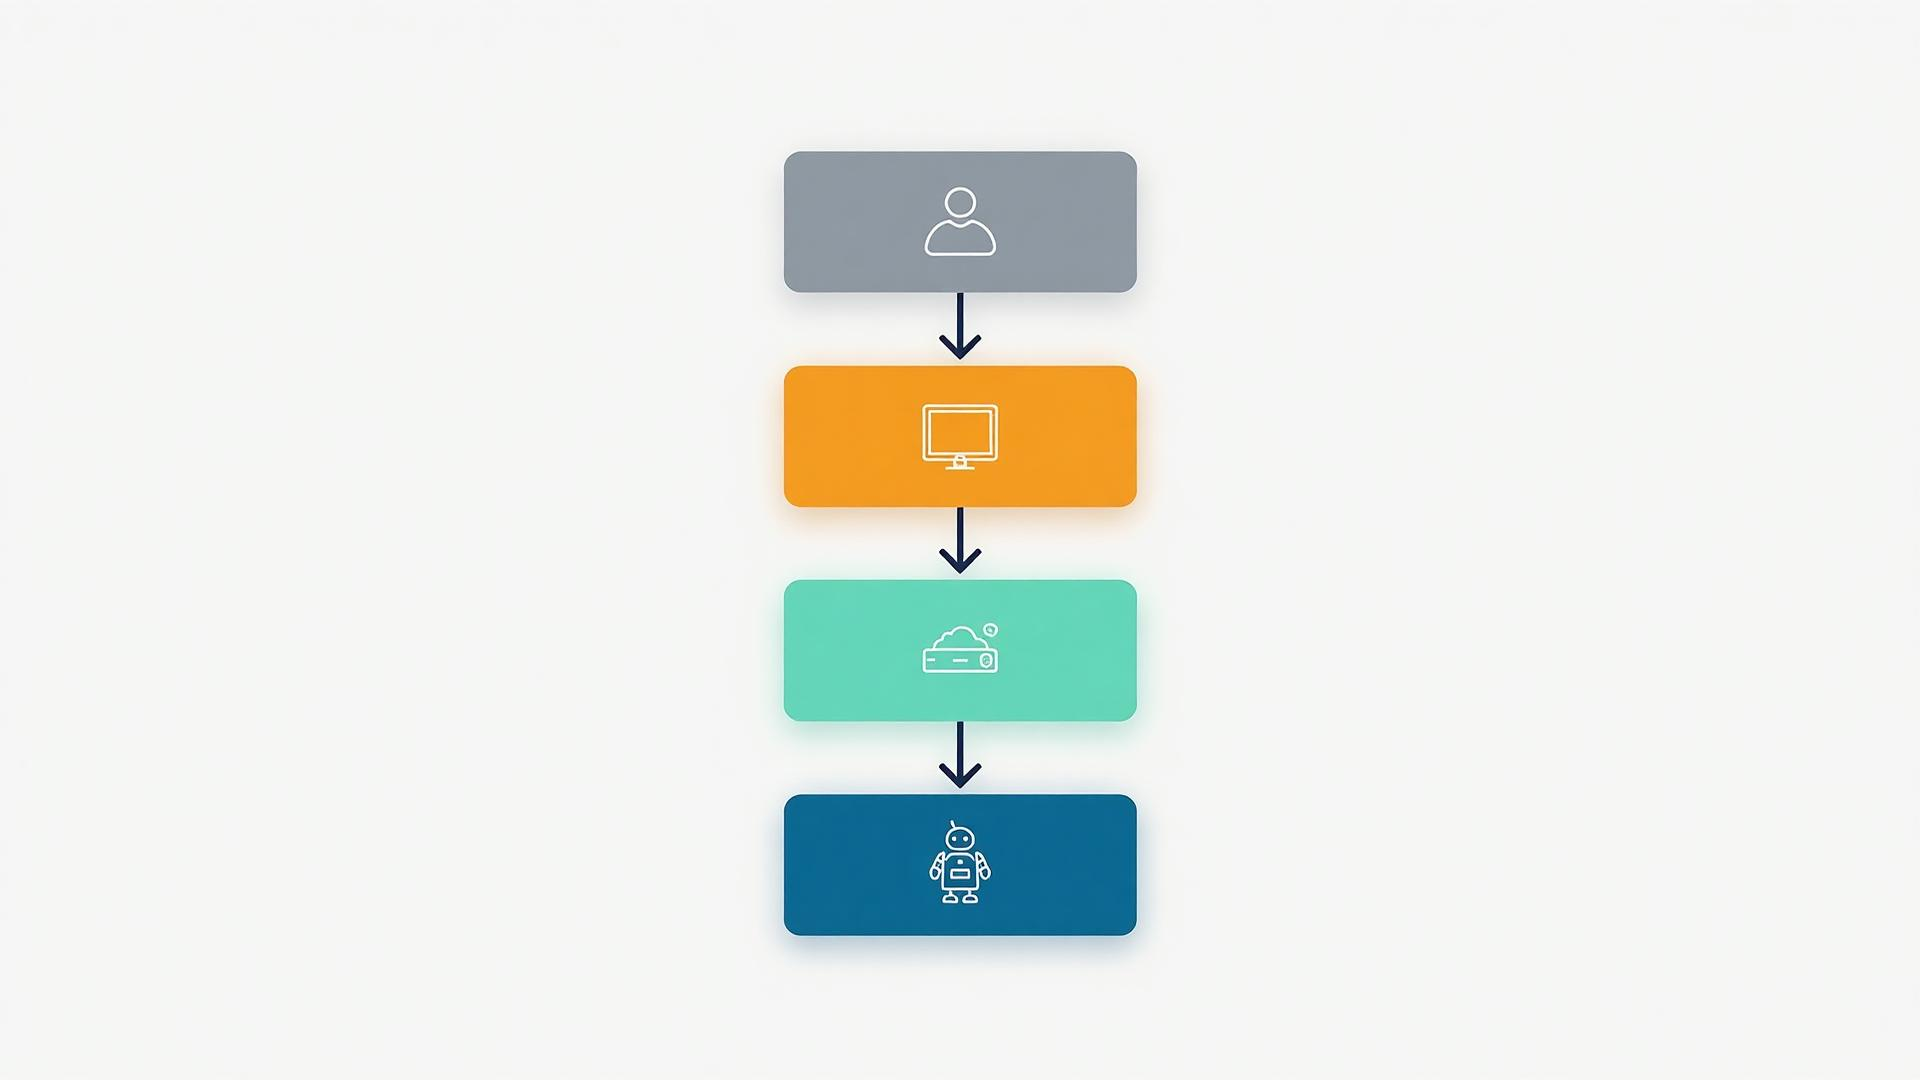
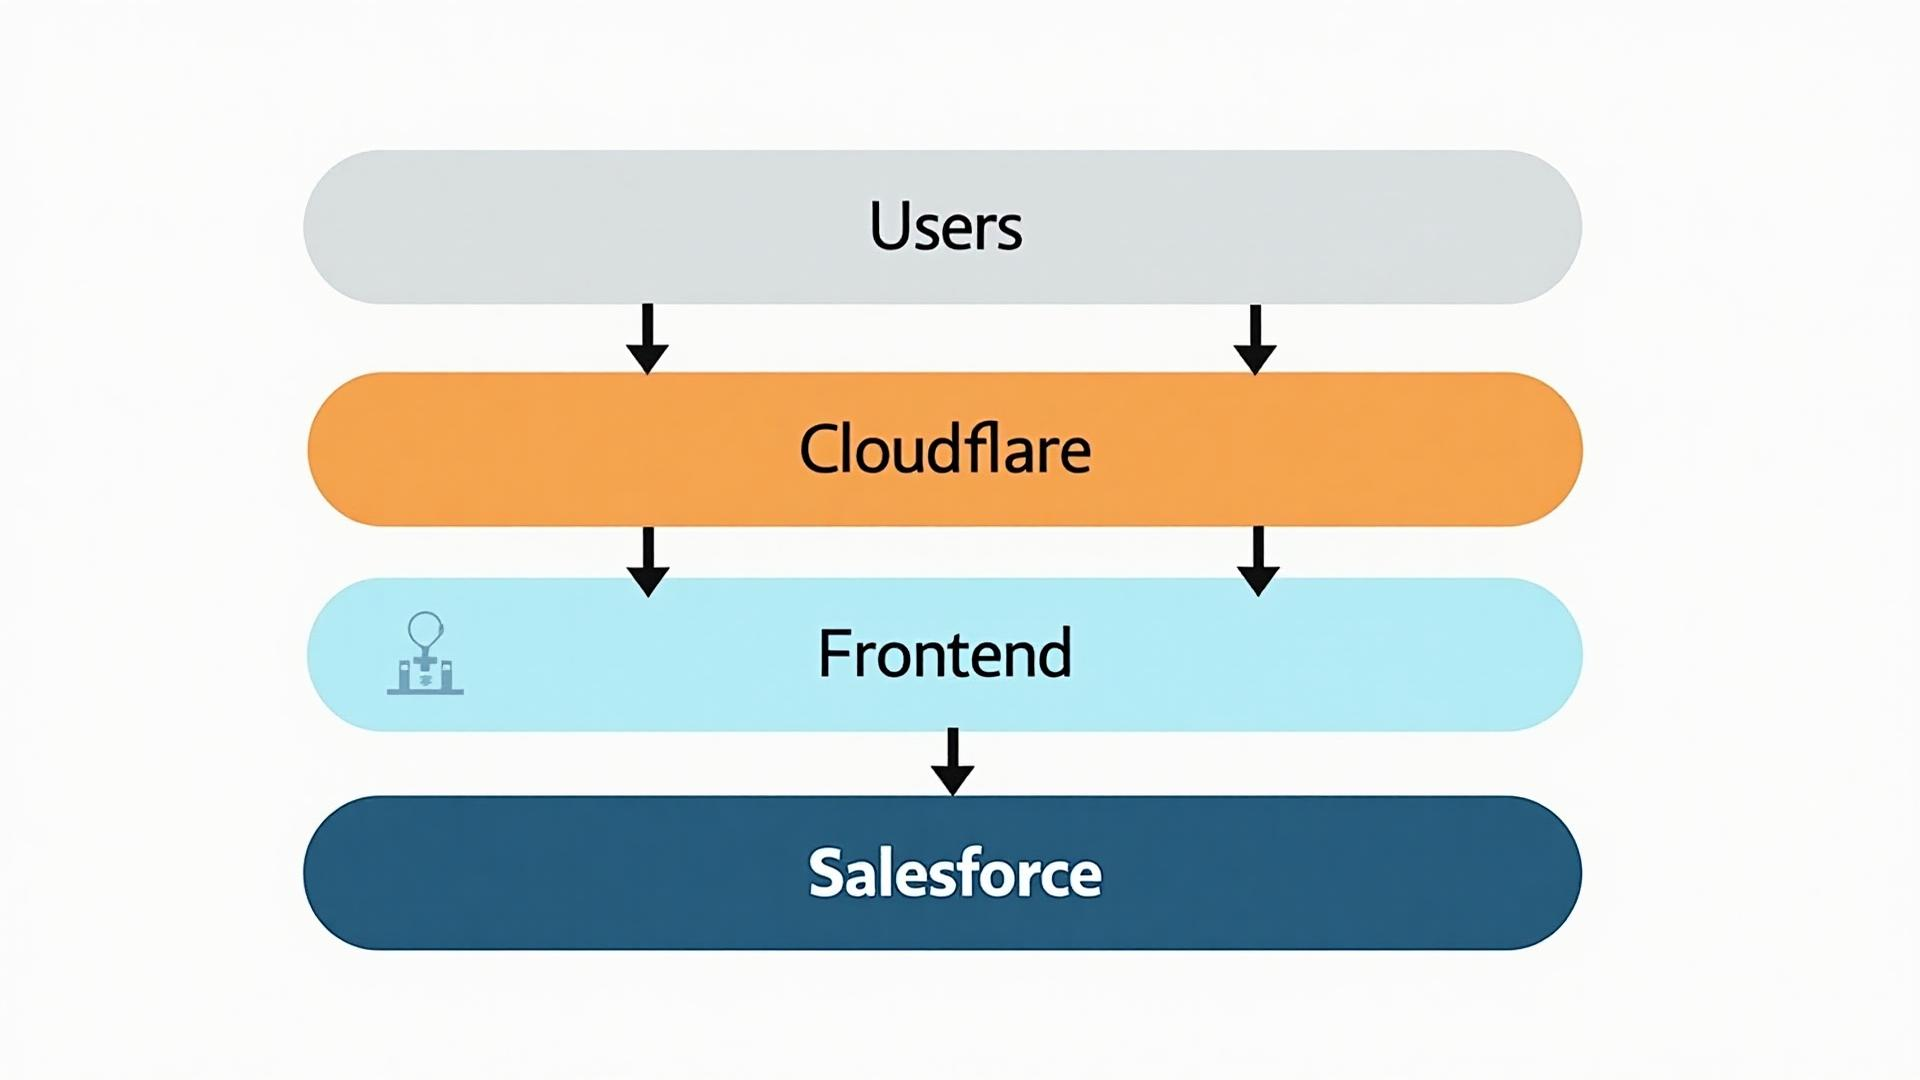
Changes

diff --git a/docs/ARCHITECTURE.md b/docs/ARCHITECTURE.md
@@ -11,12 +11,12 @@
 ![Agent14 Architecture Diagram](./architecture-diagram.jpg)
 
 **Diagram Legend (top to bottom):**
-| Icon | Layer | Description |
-|------|-------|-------------|
-| 👤 User | Users | Web & Mobile browsers accessing the platform |
-| 🖥 Monitor | Frontend | React application with authentication & chatbot UI |
-| ☁ Cloud/Server | Backend | API Gateway, Authentication, Database services |
-| 🤖 Robot | Salesforce Agentforce | AI Chatbot with Einstein Trust Layer security |
+| Layer | Color | Description |
+|-------|-------|-------------|
+| **Users** | Gray | Web & Mobile browsers accessing the platform |
+| **Cloudflare** | Orange | Security layer with CDN, WAF, DDoS & Bot Protection |
+| **Frontend** | Light Blue | React application with authentication & chatbot UI |
+| **Salesforce** | Dark Blue | Salesforce Agentforce AI backend |
 
 ---
 
@@ -171,18 +171,19 @@ flowchart TB
 
 ![Salesforce Agentforce Architecture](./salesforce-agentforce-architecture.jpg)
 
-**Diagram Legend (center hub with connected components):**
+**Diagram Legend (Salesforce Agentforce Hub & Spoke):**
 
-| Color | Icon | Component | Description |
-|-------|------|-----------|-------------|
-| 🔵 Blue (Center) | Robot | **AI Agent** | Core Agentforce conversational AI engine |
-| 🟣 Purple | Document | **Topics & Actions** | Defines conversation scope, allowed intents, and action boundaries |
-| 🔴 Red | Gears | **Agent Actions** | Executable operations (create reservation, modify booking, cancel) |
-| 🟠 Orange | Shield | **Guardrails** | Safety boundaries preventing harmful or off-topic responses |
-| 🟡 Yellow | Settings | **Einstein GPT** | Generative AI engine powering natural language understanding |
-| 🟣 Dark Purple | Cloud | **Data Cloud** | Unified customer data platform for personalization |
-| 🔵 Teal | Person | **Service Cloud** | Customer service integration for case escalation |
-| 🟢 Green | Person | **Sales Cloud CRM** | Customer relationship data and booking history |
+| Component | Description |
+|-----------|-------------|
+| **Salesforce (Center)** | Core Agentforce platform with AI Agent |
+| **Topics** | Conversation scope and intent classification |
+| **Actions** | Executable operations (reservations, bookings) |
+| **Guardrails** | Safety boundaries and restrictions |
+| **Einstein AI** | AI engine powering natural language understanding |
+| **Einstein Flows** | Automation and workflow orchestration |
+| **Data Cloud** | Unified customer data platform |
+| **Service Cloud** | Customer service and case escalation |
+| **Knowledge** | Restaurant info, FAQs, and policies |
 
 ### Agentforce Component Details
 
@@ -1122,14 +1123,15 @@ flowchart LR
 
 ![Prompt Injection Protection Flow](./prompt-injection-protection.jpg)
 
-**Diagram Legend (left to right):**
-| Icon | Stage | Description |
-|------|-------|-------------|
-| ⚠ Warning Triangle | Threat | Potentially malicious user input |
-| 🛡 Shield (1st) | Pattern Detection | Einstein Trust Layer scans for injection patterns |
-| 🛡 Shield (2nd) | Boundary Check | Topic & Action boundaries validate intent |
-| ✅ Checkmark | Safe Output | Validated, sanitized response |
-| 🛡 Shield (3rd) | Output Masking | Data masking before delivery |
+**Diagram Legend (Einstein Trust Layer Security Pipeline):**
+
+| Stage | Description |
+|-------|-------------|
+| **Input** | User message enters the system |
+| **Pattern Detection** | Scans for known injection patterns and malicious content |
+| **Semantic Analysis** | AI-powered intent analysis to detect disguised attacks |
+| **Trust Layer** | Einstein Trust Layer validates and filters content |
+| **Safe Output** | Validated, sanitized response delivered to user |
 
 The platform is protected against six categories of prompt injection attacks:
 
